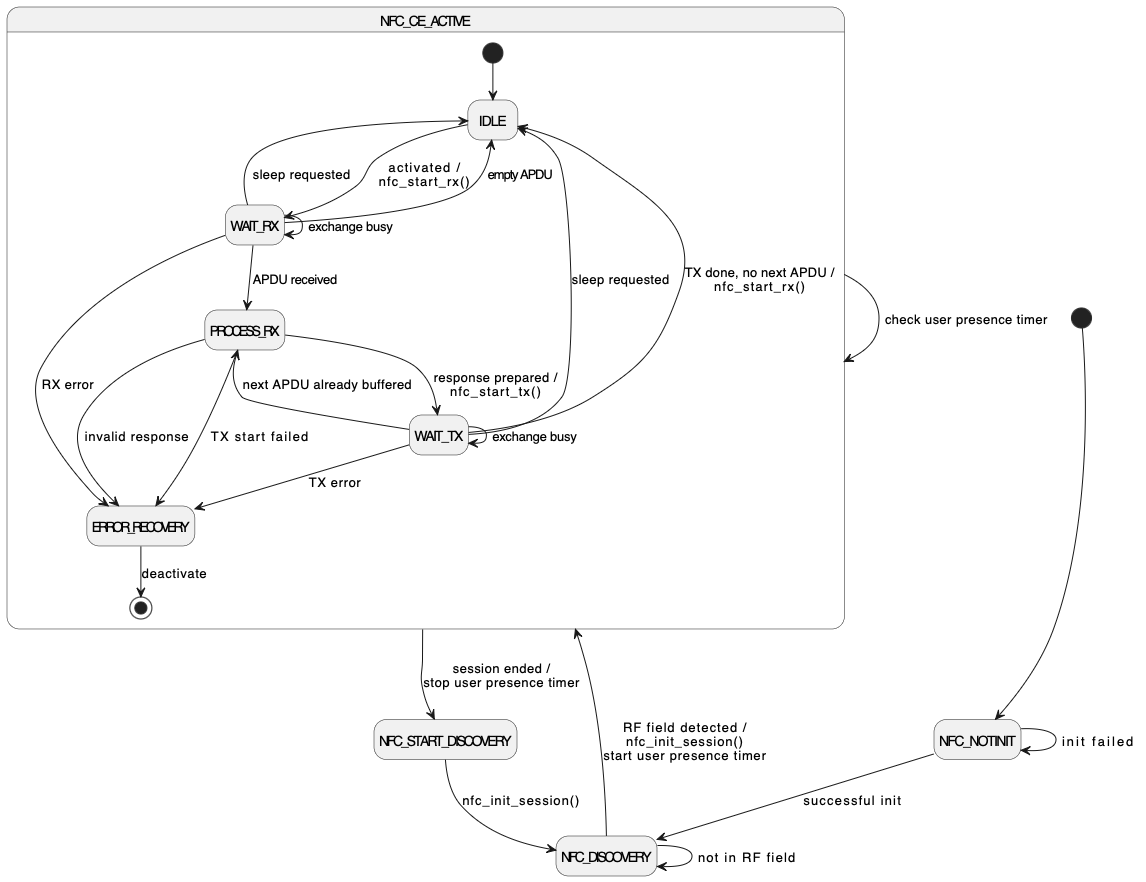
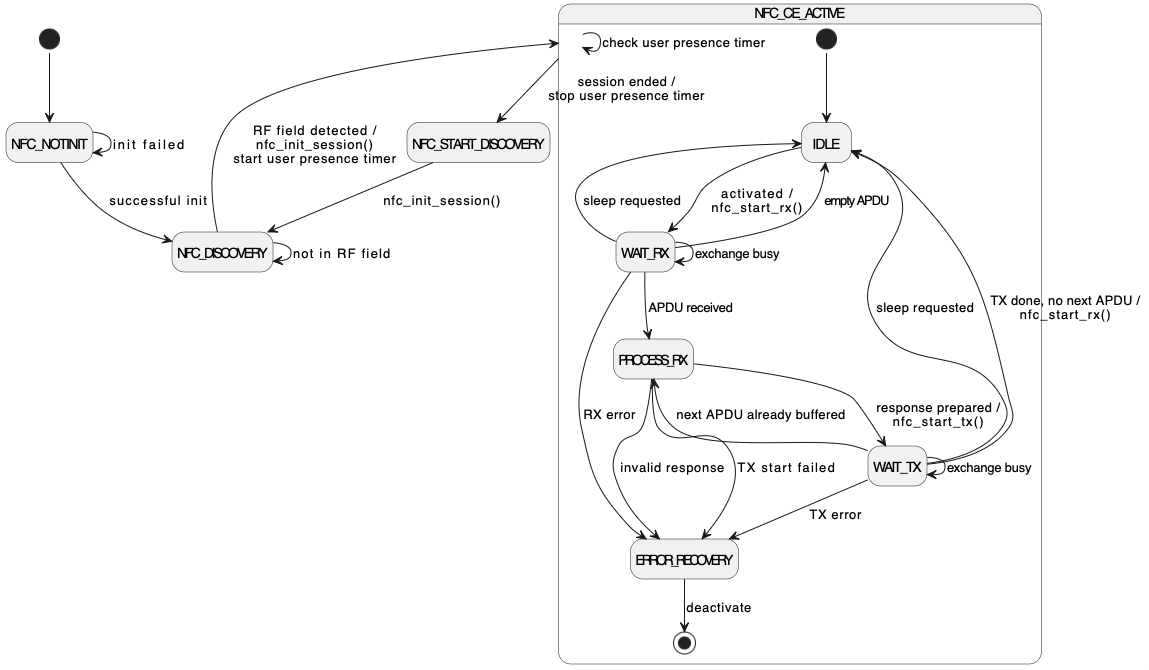
Update images

diff --git a/tex/nfc-theory.tex b/tex/nfc-theory.tex
@@ -49,6 +49,12 @@ It is important to distinguish these roles from the physical ability to generate
 \nl In passive mode, only the initiator generates the RF field. The target does not have its own power source and utilizes energy harvesting. Data transmission from the target is achieved through load modulation of the existing carrier field. This mode is characteristic of typical NFC-A and NFC-B interactions, such as communication with contactless smart cards and NFC tags.
 \enditems
 
+\midinsert
+\clabel[img-nfc-stack]{NFC Protocol Stack}
+\picheight = 80mm \cinspic ../images/NFC_Protocol_Stack.png
+\caption /f NFC Protocol Stack~\cite[nfc-protocol-stack]
+\endinsert
+
 \sec [nfc-operating-modes] Operating Modes
 
 The NFC Forum defines {\sbf three} primary {\sbf operating modes} that determine the role and behavior of a device within a communication session.
@@ -103,12 +109,6 @@ The asymmetric modulation scheme and lower modulation index result in {\sbf impr
 
 \nl However, due to its regional focus and protocol differences, NFC-F is not universally supported by all NFC readers. Consequently, its applicability in general-purpose NFC implementations is limited and it is mentioned in this overview purely for completeness.
 
-\midinsert
-\clabel[img-nfc-stack]{NFC Protocol Stack}
-\picheight = 80mm \cinspic ../images/NFC_Protocol_Stack.png
-\caption /f NFC Protocol Stack~\cite[nfc-protocol-stack]
-\endinsert
-
 \sec[nfc-a-state-machine] NFC-A State Machine
 
 NFC-A anticollision and activation sequence has a defined state machine behavior. This state machine must be respected for the correct initialization of the communication and protocol flow. 
@@ -157,6 +157,12 @@ The NFC-A state machine has the following States:
 \nl The PICC operates under the ISO-DEP protocol, initiated by a successful RATS/ATS exchange. All subsequent communication follows the negotiated parameters (FWT, FSC, etc.). The card remains in this state until the RF field is removed or a protocol-level untick is issued, returning it to HALT or IDLE, respectively.
 
 \enditems
+
+\midinsert
+\clabel[img-nfc-stack]{NFC Initialization Flow}
+\picheight = 60mm \cinspic ../images/nfc-init-flow.png
+\caption /f PlantUML diagram of the NFC initialization flow.
+\endinsert
 
 
 \secc[nfc-a-anticollision] NFC-A Initialization and Anticollision

diff --git a/tex/implementation.tex b/tex/implementation.tex
@@ -104,5 +104,5 @@ To ensure non-blocking operation and enable concurrent execution of other critic
 \midinsert
 \clabel[img-impl-state-machine]{Implemented State Machine}
 \picheight = 100mm \cinspic ../images/lionkey-nfc-state-machine.png
-\caption /f State diagram of the implemented state machine.
+\caption /f PlantUML diagram of the implemented state machine.
 \endinsert
